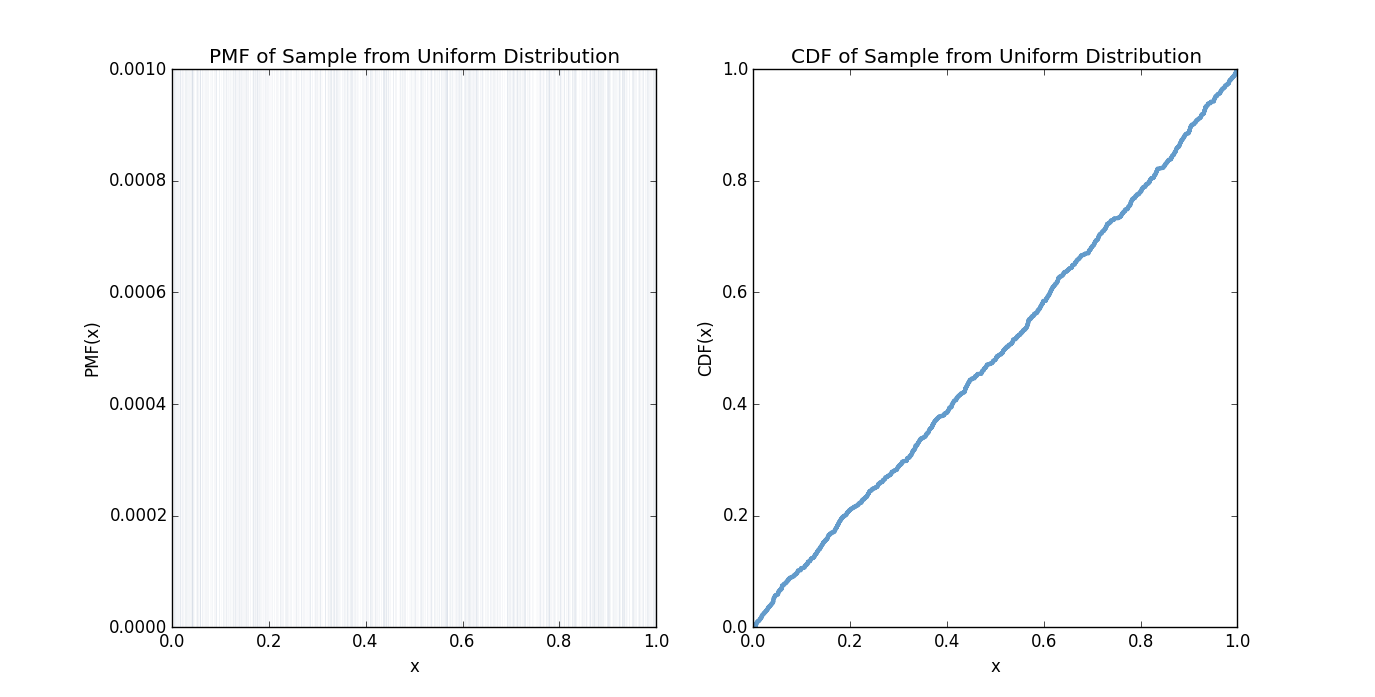
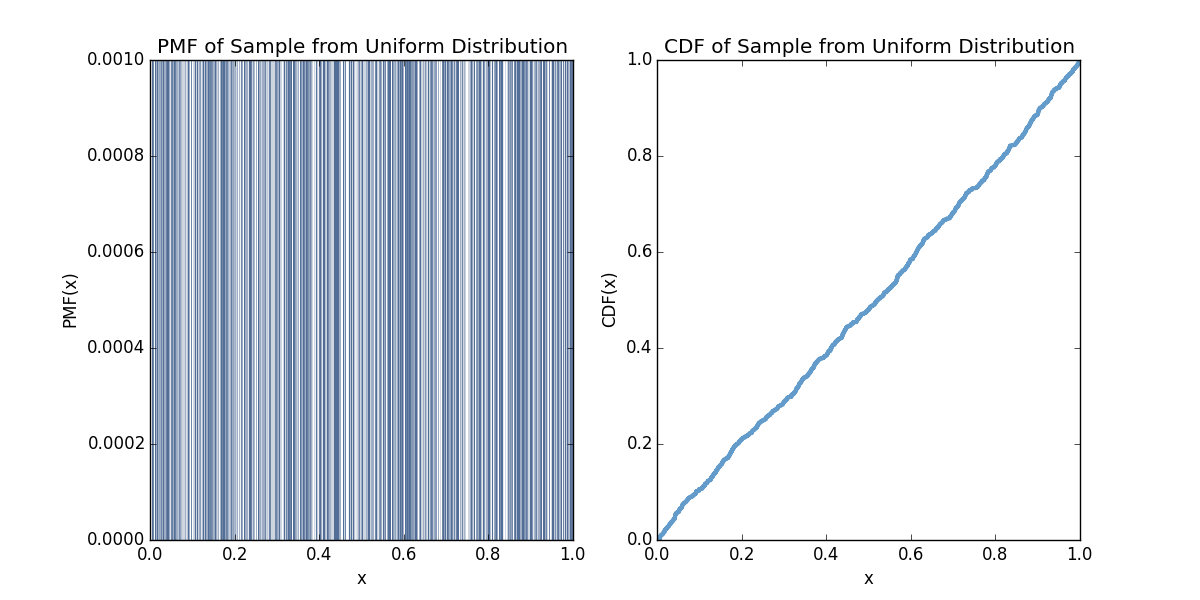
4-2

diff --git a/statistics/4-2-random_dist.md b/statistics/4-2-random_dist.md
@@ -1,3 +1,36 @@
 [Think Stats Chapter 4 Exercise 2](http://greenteapress.com/thinkstats2/html/thinkstats2005.html#toc41) (a random distribution)
 
->> REPLACE THIS TEXT WITH YOUR RESPONSE
+>> The numbers generated by `random.random` are supposed to be uniform between
+>> 0 and 1; that is, every value in the range should have the same probability.
+
+>> Generate 1000 numbers from random.random and plot their PMF and CDF.
+>> Is the distribution uniform?
+
+```python
+import thinkstats2 # Think Stats 2 module containing Pmf and Cdf constructors
+import thinkplot # Think Stats 2 module containing Pmf and Cdf plotters
+import numpy as np
+np.random.seed(1234)
+sample = np.random.random(1000)
+cdf = thinkstats2.Cdf(sample)
+pmf = thinkstats2.Pmf(sample)
+
+thinkplot.PrePlot(2, cols = 2) # side by side plots
+thinkplot.Pmf(pmf, label = 'PMF(x)', linewidth = 0.1) # suppress this legend in .Config()
+thinkplot.Config(title = 'PMF of Sample from Uniform Distribution', 
+	xlabel = 'x', ylabel = 'PMF(x)', legend = False)
+thinkplot.SubPlot(2) # switch to 2nd figure on right
+thinkplot.Cdf(cdf, label = 'CDF(x)') # suppress this legend in .Show()
+thinkplot.Show(title = 'CDF of Sample from Uniform Distribution', 
+	xlabel = 'x', ylabel = 'CDF(x)', legend = False)
+```
+
+>> Looking at both the PMF and CDF, it appears that the sample's distribution
+>> is essentially uniform, which validates the random.random() generated values.
+
+>> Each line in the PMF has probability of 0.0010, which demonstrates that 
+>> each value in the sample has equal probability.
+
+>> The CDF plot shows a virtually straight 45-degree line, which indicates that
+>> that for each value in the sample, the corresponding percentile rank is 
+>> basically the same. That is, for x = 0.2, its percentile rank (CDF(x)) = 0.2.
